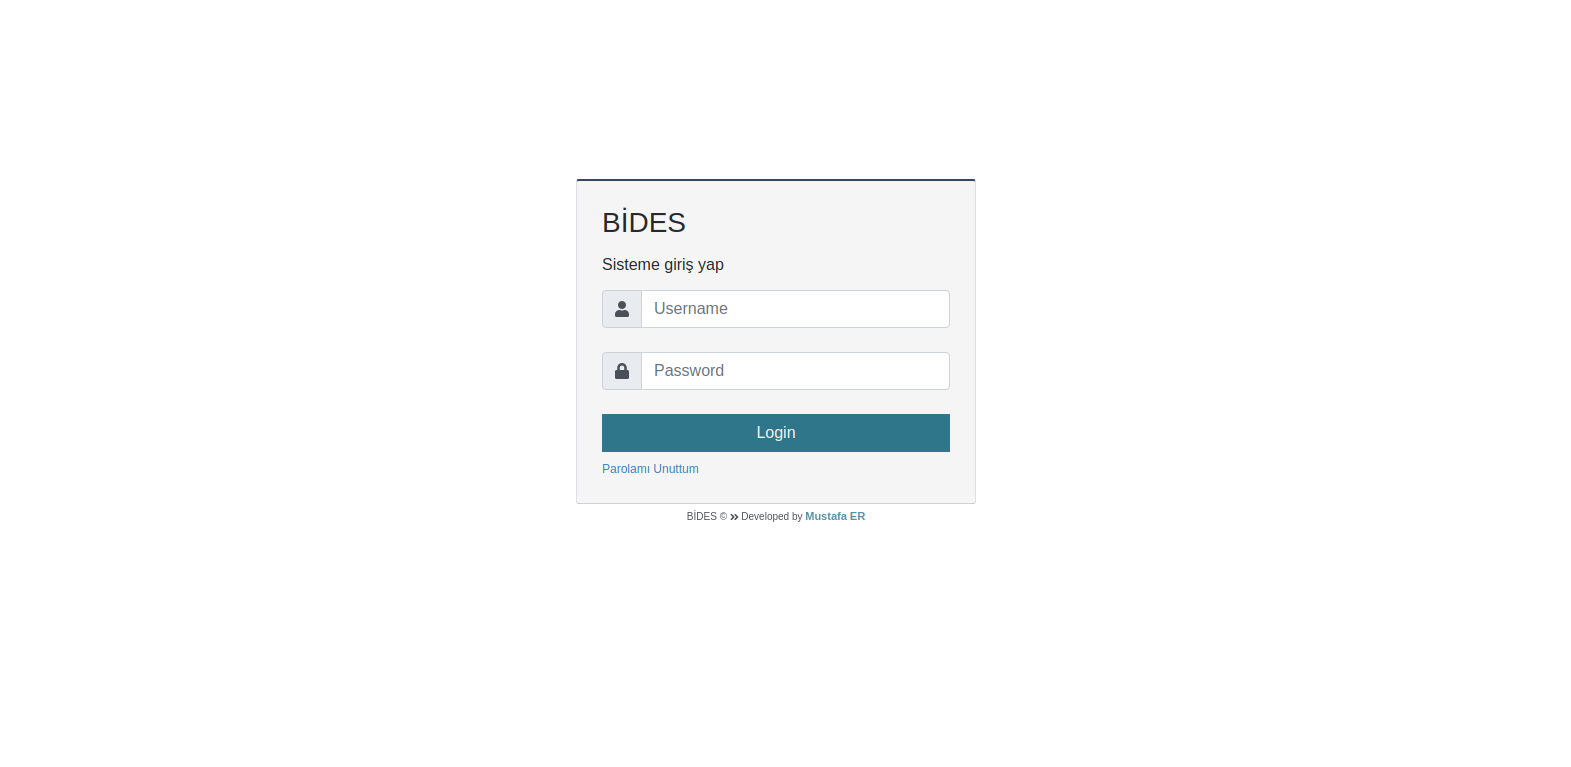
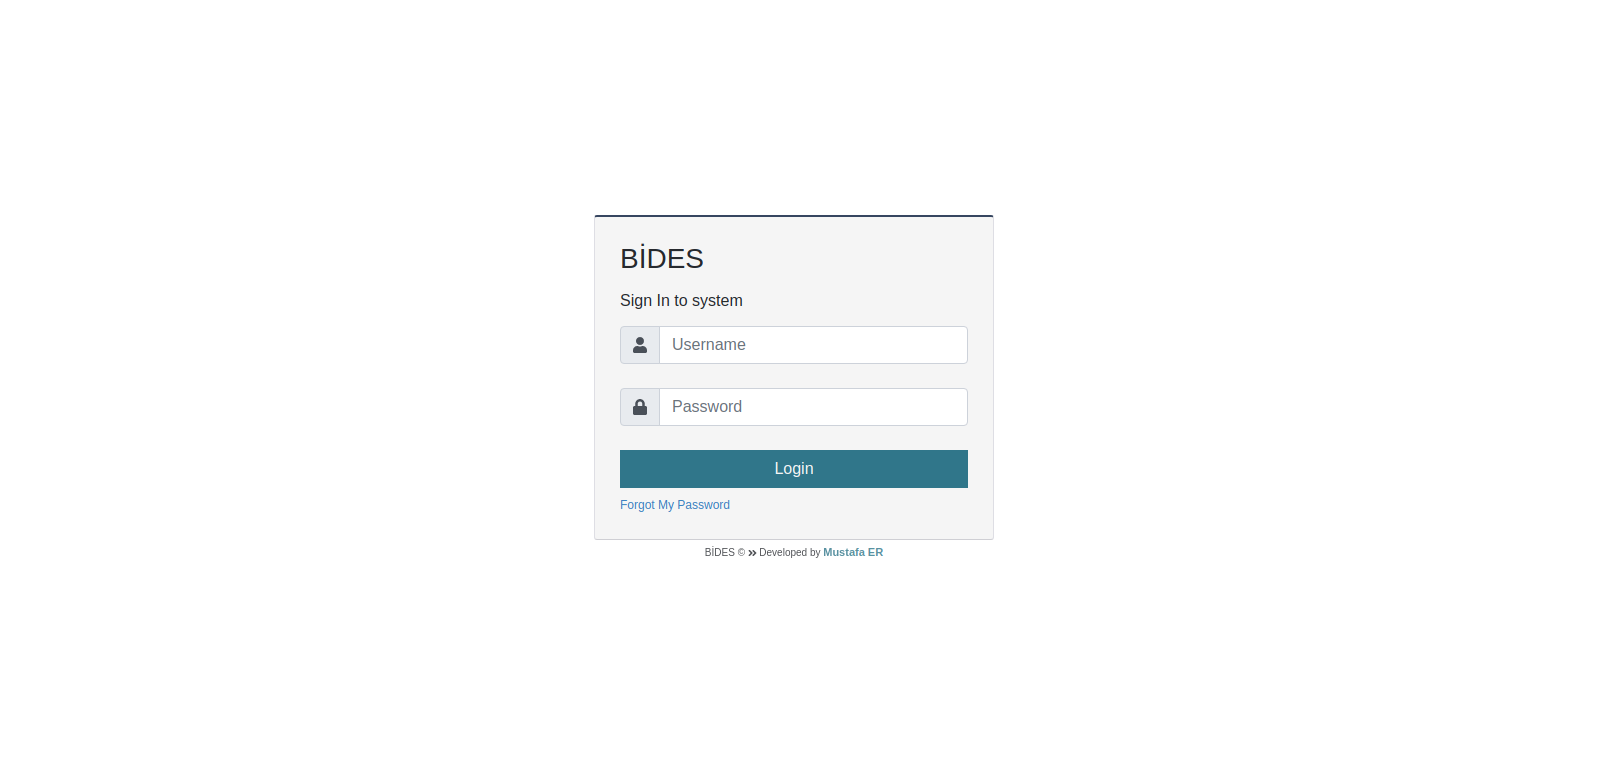
language fix

Changed region(s): [[0.3743, 0.2699, 0.6238, 0.7197]]

diff --git a/index.html b/index.html
@@ -17,7 +17,7 @@
                         <h3>BİDES </h3>
                     </div>
                     <div class="form-group">
-                        <h6>Sisteme giriş yap</h6>
+                        <h6>Sign In to system</h6>
                     </div>
                     <div class="input-group margin-bottom-sm">
                         <div class="input-group-prepend">
@@ -41,7 +41,7 @@
                         <input type="submit" value="Login" class="btn btn-default">
                     </div>
                     <div class="input-group mt-2">
-                        <a class="forgot-password">Parolamı Unuttum</a>
+                        <a class="forgot-password">Forgot My Password</a>
                     </div>
                 </form>
             </div>
